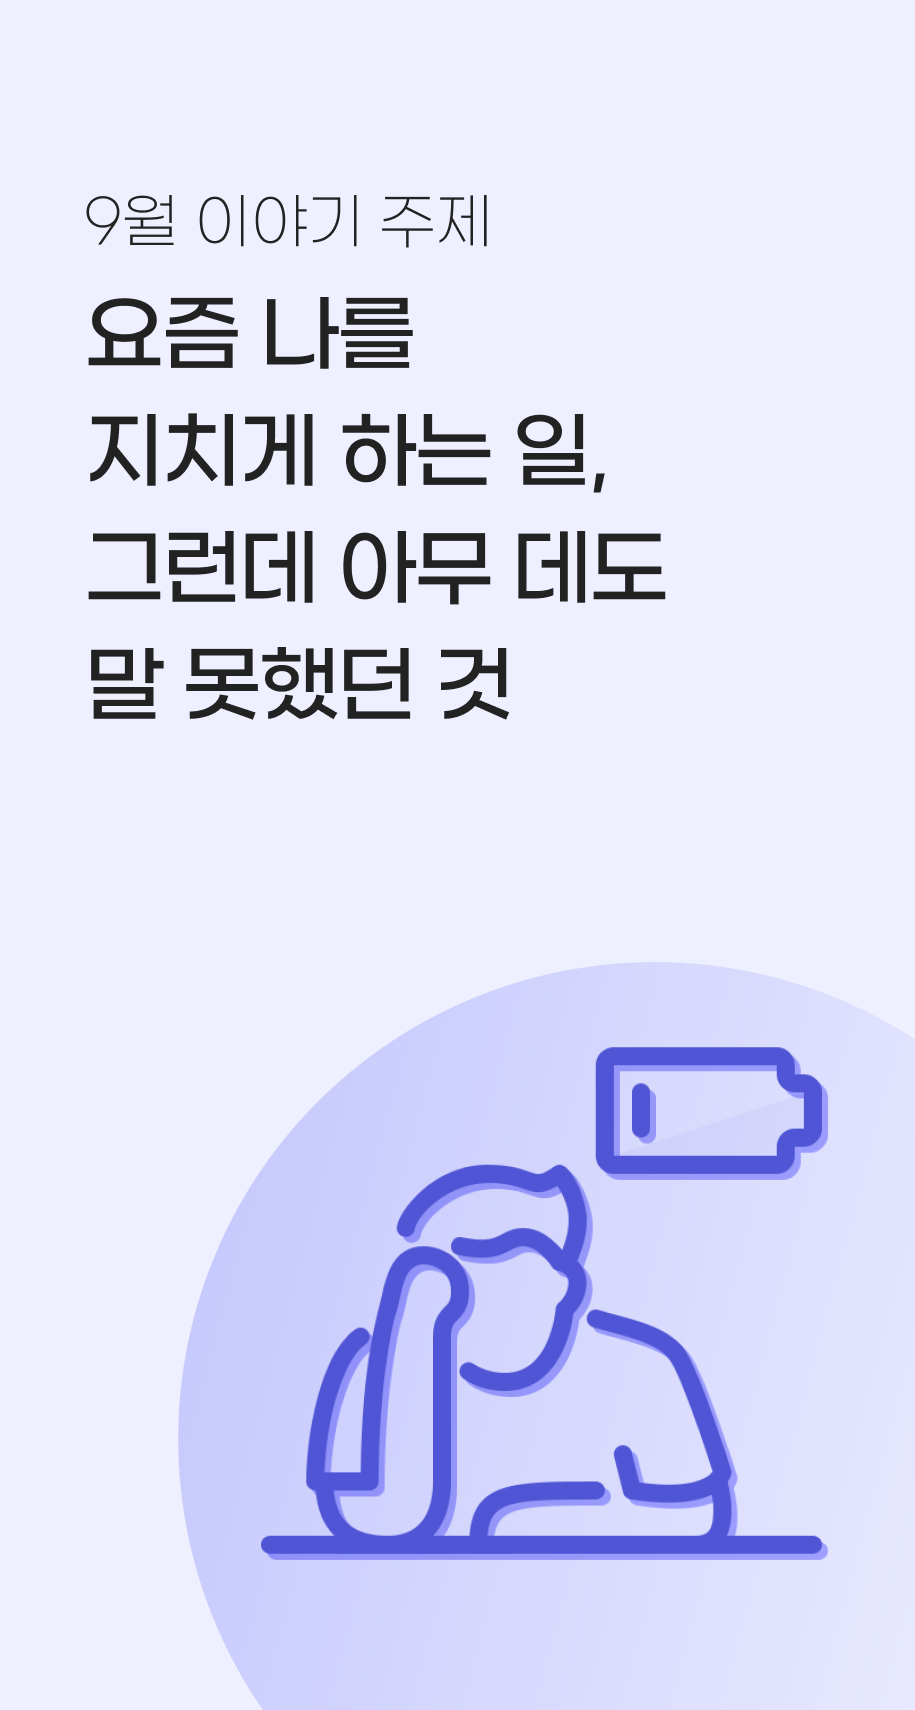
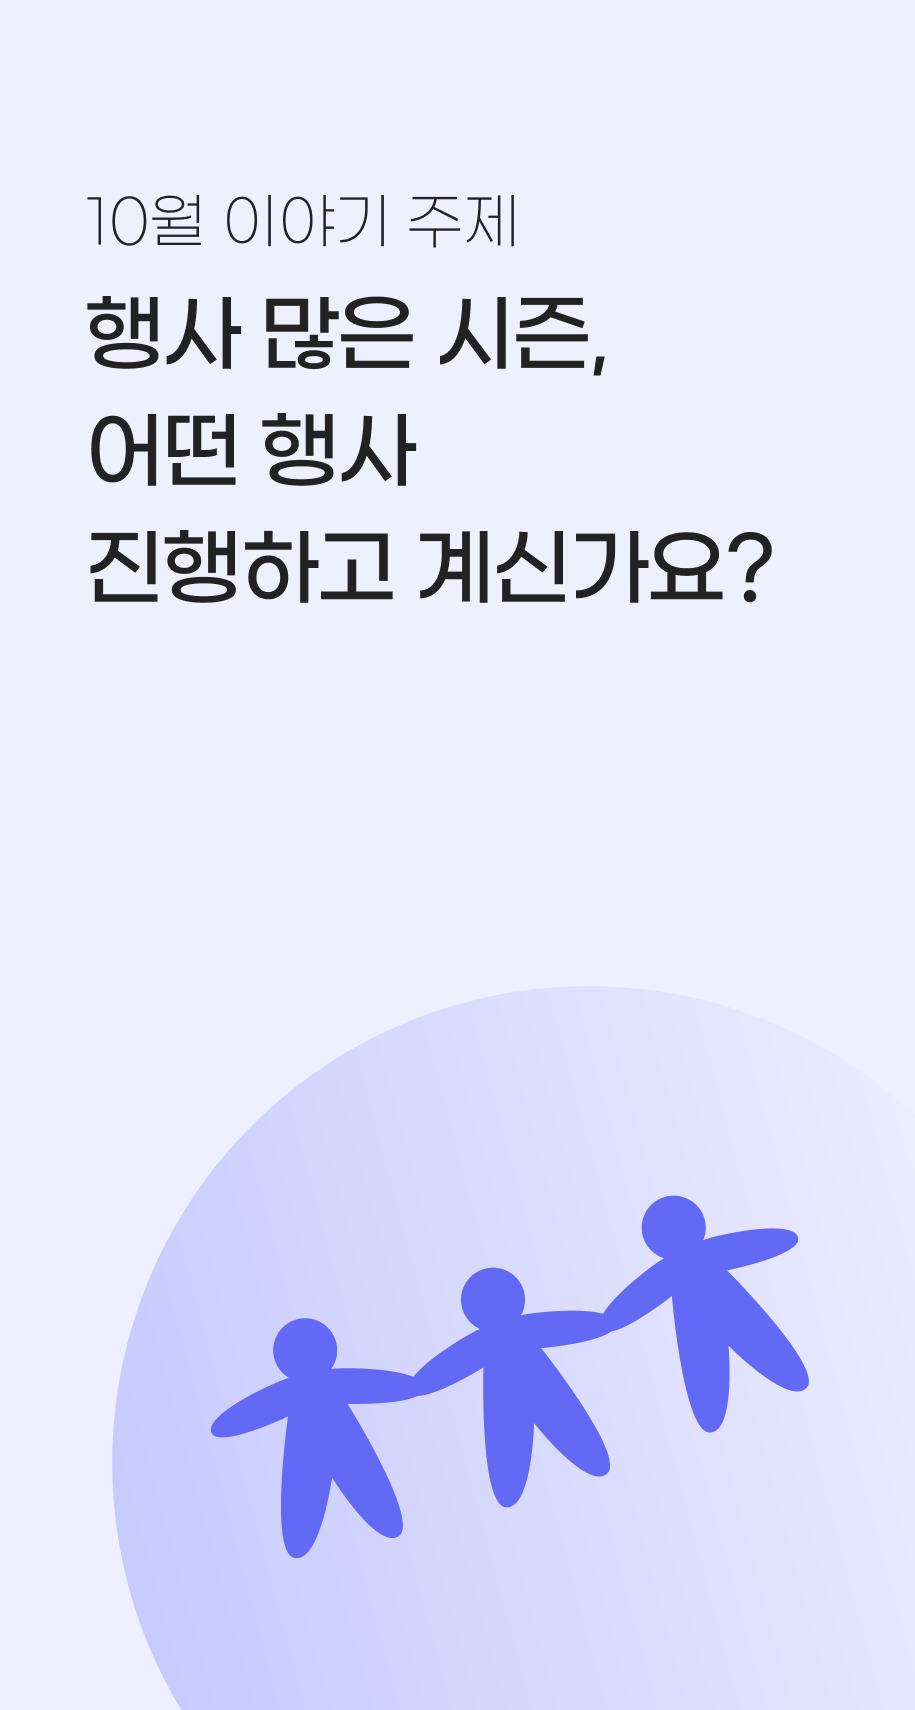
update monthly event

Changed region(s): [[0.1224, 0.5579, 0.918, 1.0], [0.0918, 0.093, 0.8568, 0.4339]]

diff --git a/src/pages/common/Home.tsx b/src/pages/common/Home.tsx
@@ -279,25 +279,23 @@ const Home = () => {
               <div
                 className={styles.opacity}
                 onClick={
-                  winInnerWidth < 768 ? () => navigate("/notice/13") : () => {}
+                  winInnerWidth < 768 ? () => navigate("/notice/14") : () => {}
                 }
               ></div>
               <div className={styles.content}>
                 <button
                   className="tab_show"
                   type="button"
-                  onClick={() => navigate("/notice/13")}
+                  onClick={() => navigate("/notice/14")}
                 >
                   이벤트 참여하기
                 </button>
                 {winInnerWidth >= 768 ? (
-                  <h3>9월 이벤트</h3>
+                  <h3>10월 이벤트</h3>
                 ) : (
-                  <h4>9월 이벤트</h4>
+                  <h4>10월 이벤트</h4>
                 )}
-                <span>
-                  요즘 나를 지치게 하는 일, 그런데 아무 데도 말 못 했던 것
-                </span>
+                <span>행사 많은 시즌, 어떤 행사 진행하고 계신가요?</span>
               </div>
             </div>
             <div className={`${styles.banner} ${styles.banner_training}`}>

diff --git a/src/pages/community/Community.tsx b/src/pages/community/Community.tsx
@@ -79,21 +79,19 @@ const Community = () => {
           <div
             className={styles.opacity}
             onClick={
-              winInnerWidth < 768 ? () => navigate("/notice/13") : () => {}
+              winInnerWidth < 768 ? () => navigate("/notice/14") : () => {}
             }
           ></div>
           <div className={styles.content}>
             <button
               className="tab_show"
               type="button"
-              onClick={() => navigate("/notice/13")}
+              onClick={() => navigate("/notice/14")}
             >
               이벤트 참여하기
             </button>
-            <h4>9월 이벤트</h4>
-            <span>
-              요즘 나를 지치게 하는 일, 그런데 아무 데도 말 못 했던 것
-            </span>
+            <h4>10월 이벤트</h4>
+            <span>행사 많은 시즌, 어떤 행사 진행하고 계신가요?</span>
           </div>
         </div>
         <div className={styles.weekly_wrap}>
